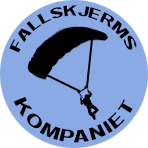
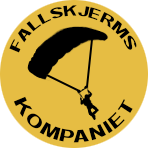
farger

diff --git a/index.html b/index.html
@@ -28,6 +28,7 @@
         <video autoplay loop muted id="aboutVideo" class="background-video">
             <source src="img/mountains.mp4" type="video/mp4">
         </video>
+        <div class="video-overlay"></div> 
         <div class="content">
             <h1>Vi elsker fallskjerm!</h1>
             <article>
@@ -38,8 +39,10 @@
             <a href="#more-about-us" class="btn">Hvem er vi?</a>
         </div>
     </section>
+    
     <section class="services1">
         <h2>Hva har vi å by på?</h2>
+        <br>
         <div class="service-list1">
             <article>
                 <p>At vero eos et accusamus et iusto odio dignissimos ducimus qui blanditiis praesentium voluptatum deleniti atque corrupti quos dolores et quas molestias excepturi sint occaecati cupiditate non provident, similique sunt in culpa qui officia deserunt mollitia animi, id est laborum et dolorum fuga. Et harum quidem rerum facilis est et expedita distinctio. Nam libero tempore, cum soluta nobis est eligendi optio cumque nihil impedit quo minus id </p>
@@ -50,17 +53,20 @@
     <br>
     
     <section class="aboutus">
-        <div class="container"> 
+        <div class="container">
             <div class="image-container">
                 <img src="img/placeholder400.png" alt="About Us">
             </div>
-        <div class="aboutustext">
-            <article>
-                <h3>Om oss</h3>
-                <p>At vero eos et accusamus et iusto odio dignissimos ducimus qui blanditiis praesentium voluptatum deleniti atque corrupti quos dolores et quas molestias excepturi sint occaecati cupiditate non provident, similique sunt in culpa qui officia deserunt mollitia animi, id est laborum et dolorum fuga. Et harum quidem rerum facilis est et expedita distinctio. Nam libero tempore, cum soluta nobis est eligendi optio cumque nihil impedit quo minus id</p>
-            </article>
+            <div class="aboutustext">
+                <article>
+                    <h3>Om oss</h3>
+                    <p>At vero eos et accusamus et iusto odio dignissimos ducimus qui blanditiis praesentium voluptatum deleniti atque corrupti quos dolores et quas molestias excepturi sint occaecati cupiditate non provident, similique sunt in culpa qui officia deserunt mollitia animi, id est laborum et dolorum fuga. Et harum quidem rerum facilis est et expedita distinctio. Nam libero tempore, cum soluta nobis est eligendi optio cumque nihil impedit quo minus id</p>
+                    <a href="about.html" class="btn2">Les mer om oss</a> 
+                </article>
+            </div>
         </div>
     </section>
+    
 
     <br>
 

diff --git a/styles.css b/styles.css
@@ -1,4 +1,4 @@
-/* Basic reset and global styles */
+
 * {
   margin: 0;
   padding: 0;
@@ -43,16 +43,16 @@ nav ul li {
 }
 
 nav ul li a {
+  font-weight: normal;
   color: #333;
   text-decoration: none;
-  font-weight: bold;
 }
 
 nav ul li a.active {
   font-weight: bold;
-  border-bottom: 3px solid #89CFF0;
-  text-decoration-color: #89CFF0;
+  border-bottom: 3px solid #e6bd43;
 }
+
 
 .content article {
   width: 60%;
@@ -64,13 +64,41 @@ nav ul li a.active {
 
 .btn {
   display: inline-block;
-  background: #8AAAE5;
-  color: #fff;
+  background: #e6bd43;
+  color: #252525;
   padding: 10px 30px;
   margin-top: 10px;
+  border: 2px solid #252525;
   border-radius: 5px;
-  box-shadow: 3px 3px 5px rgba(0, 0, 0, 0.3);
+  transition: color 0.3s, background-color 0.3s;
 }
+
+.btn:hover {
+  background-color: #252525; 
+  color: #e6bd43; 
+  border-color: #e6bd43;
+}
+
+.btn2 {
+  margin-top: 20px;
+  display: inline-block;
+  background-color: transparent; 
+  color: #252525; 
+  padding: 10px 20px;
+  text-decoration: none;
+  border: 2px solid #252525; 
+  border-radius: 5px;
+  transition: color 0.3s, background-color 0.3s;
+}
+
+
+.btn2:hover {
+  background-color: #252525; 
+  color: #e6bd43; 
+  border-color: #e6bd43; 
+}
+
+
 
 .about {
   position: relative;
@@ -88,6 +116,17 @@ nav ul li a.active {
   width: 100%;
   height: 100vh;
   object-fit: cover;
+}
+
+.video-overlay {
+  position: absolute;
+  top: 0;
+  left: 0;
+  width: 100%;
+  height: 100%;
+  background-color: white;
+  opacity: 0.3; 
+  z-index: 1; 
 }
 
 .about .content {
@@ -119,9 +158,8 @@ nav ul li a.active {
 
 .services1 {
   background: #fff;
-  padding: 20px;
+  padding: 70px;
   text-align: center;
-  margin-top: 40px;
 }
 
 .service-list1 {
@@ -135,7 +173,7 @@ nav ul li a.active {
 }
 
 .aboutus {
-  background-color: #8AAAE5;
+  background-color: #e6bd43;
   padding: 30px;
 }
 
@@ -197,7 +235,6 @@ footer {
   color: #eee;
 }
 
-/* Responsive design */
 @media (max-width: 768px) {
   .service-list {
     flex-direction: column;
